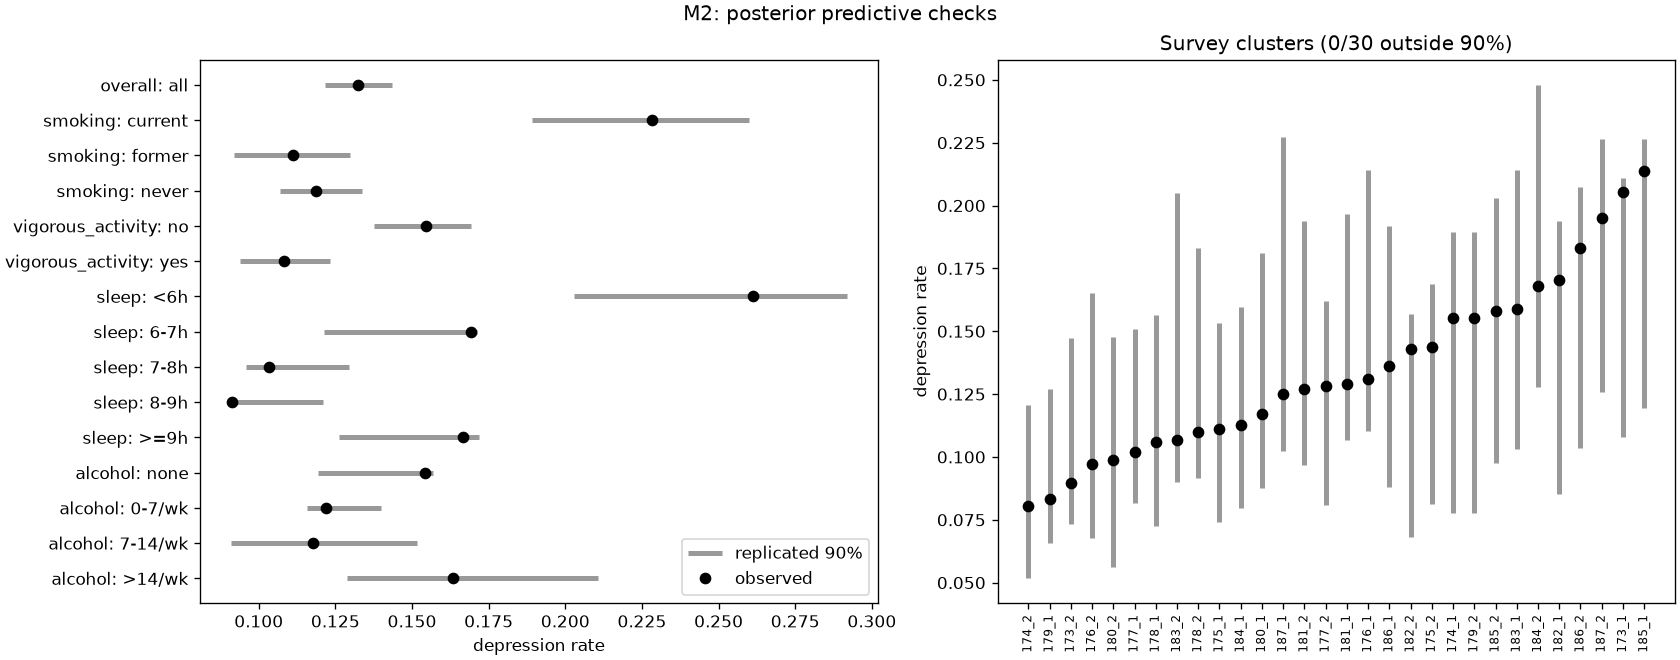
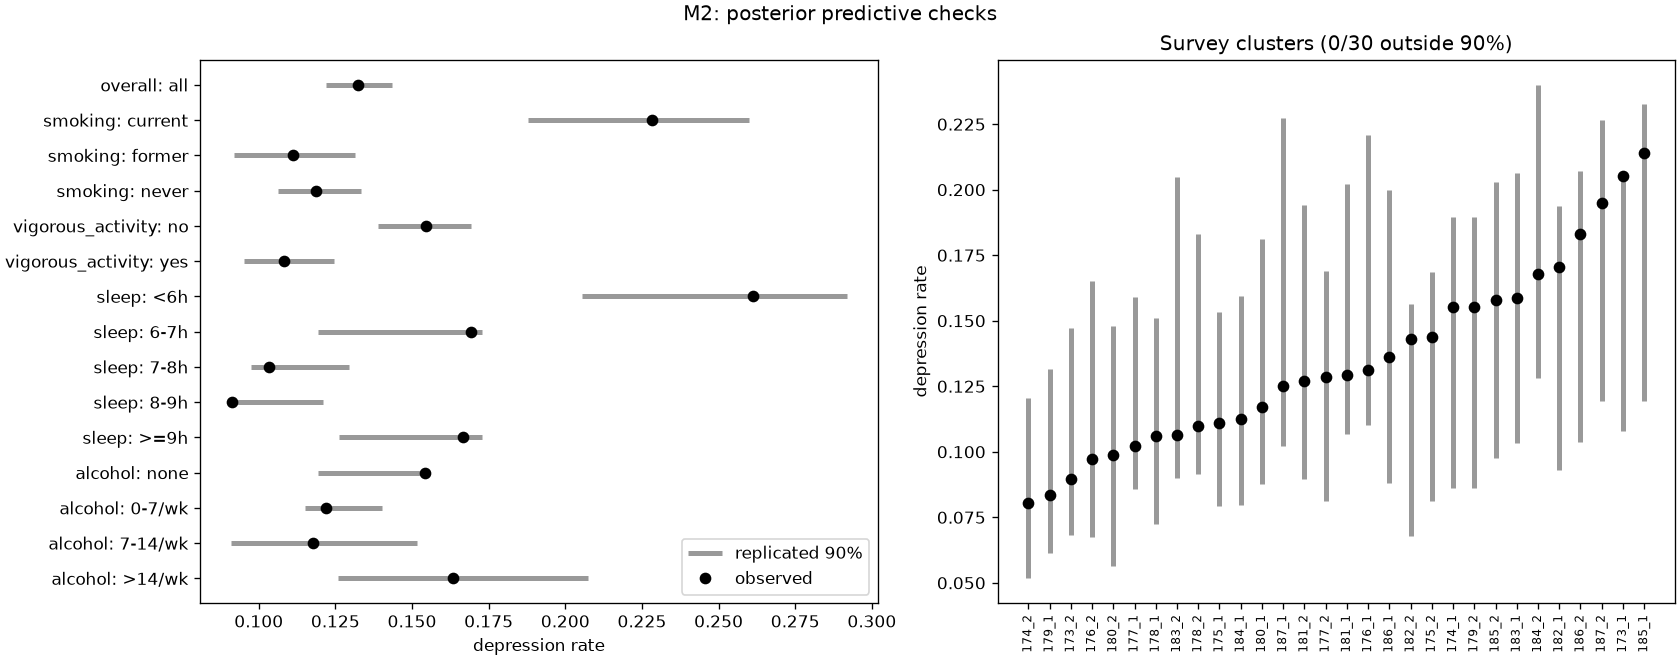
New submodels to check if sleep quadratic is beneficial. Plots and plotting refactor (#18)

diff --git a/src/evaluation.py b/src/evaluation.py
@@ -21,7 +21,7 @@ from src.models import MODELS, get_priors, prepare_bambi_df
 SEED = 42
 PPC_DRAWS = 1000
 PRIOR_SCALES = (0.5, 2.0)
-SENSITIVITY_MODELS = ("M1", "M2")
+SENSITIVITY_MODELS = list(MODELS.keys() - {"M0"})  # set difference on dict_keys works in Python 3
 
 
 def load_data() -> pd.DataFrame:
@@ -192,28 +192,50 @@ def evaluate(args) -> None:
     print(f"Participants: {len(df)}, depressed: {y.sum()} ({y.mean():.1%})")
 
     idatas = {name: fit(name, df, args) for name in MODELS}
-    conv, rates, clusters, loo_rows, elpd = [], [], [], [], {}
+    conv, rates, clusters, loo_rows, elpd_i, loo_results = [], [], [], [], {}, {}
     for name, idata in idatas.items():
         conv.append(convergence(name, idata))
         rate_table, cluster_stat = ppc(name, df, y, replicate(idata, y, rng))
         rates.append(rate_table)
         clusters.append(cluster_stat)
-        row, elpd[name] = loo(name, idata)
-        loo_rows.append(row)
+        res = az.loo(idata, pointwise=True)
+        loo_results[name] = res
+        k = np.asarray(res.pareto_k).ravel()
+        loo_rows.append({
+            "model": name,
+            "elpd_loo": res.elpd,
+            "se": res.se,
+            "p_loo": res.p,
+            "max_pareto_k": k.max(),
+            "n_pareto_k_gt_0.7": int((k > 0.7).sum()),
+        })
+        elpd_i[name] = np.asarray(res.elpd_i).ravel()
 
-    elpd["baseline"] = baseline_elpd(y)
-    loo_rows.append({"model": "baseline", "elpd_loo": elpd["baseline"].sum()})
+    elpd_i["baseline"] = baseline_elpd(y)
+    loo_rows.append({
+        "model": "baseline",
+        "elpd_loo": elpd_i["baseline"].sum(),
+        "se": np.nan,
+        "p_loo": np.nan,
+        "max_pareto_k": np.nan,
+        "n_pareto_k_gt_0.7": np.nan,
+    })
 
     pd.DataFrame(conv).to_csv(TABLE_DIR / "convergence.csv", index=False)
-    pd.concat(rates).to_csv(TABLE_DIR / "ppc_rates.csv", index=False)
+    pd.concat(rates, ignore_index=True).to_csv(TABLE_DIR / "ppc_rates.csv", index=False)
     pd.DataFrame(clusters).to_csv(TABLE_DIR / "ppc_clusters.csv", index=False)
     pd.DataFrame(loo_rows).to_csv(TABLE_DIR / "loo.csv", index=False)
-    pd.DataFrame([pairwise(elpd, "M0", "baseline"), pairwise(elpd, "M1", "M0"),
-                  pairwise(elpd, "M2", "M1")]).to_csv(TABLE_DIR / "loo_pairwise.csv", index=False)
-    az.compare(idatas).to_csv(TABLE_DIR / "model_comparison.csv")
+    model_names = list(MODELS.keys())
+    comparisons = [pairwise(elpd_i, model_names[0], "baseline")] if model_names else []
+    comparisons.extend(
+        pairwise(elpd_i, model_names[i], model_names[i - 1])
+        for i in range(1, len(model_names))
+    )
+    pd.DataFrame(comparisons).to_csv(TABLE_DIR / "loo_pairwise.csv", index=False)
+    az.compare(loo_results).to_csv(TABLE_DIR / "model_comparison.csv")
 
-    if not args.skip_sensitivity:
+    if not args.skip_sensitivity and SENSITIVITY_MODELS:
         sens = [sensitivity(name, df, idatas[name], args) for name in SENSITIVITY_MODELS]
-        pd.concat(sens).to_csv(TABLE_DIR / "prior_sensitivity.csv", index=False)
+        pd.concat(sens, ignore_index=True).to_csv(TABLE_DIR / "prior_sensitivity.csv", index=False)
 
     print(f"Tables written to {TABLE_DIR}/")

diff --git a/src/models.py b/src/models.py
@@ -5,8 +5,17 @@ import bambi as bmb
 MODELS = {
     # baseline model: control
     "M0": "y ~ age_z + gender_female + income_z",
-    # linear + non-linear model: habits + non-linear sleep
-    "M1": (
+    "M1a": (
+        "y ~ age_z + gender_female + income_z "
+        "+ vigorous_act + sedentary_z + alcohol_z "
+        "+ sleep_c + smoking_former + smoking_current"
+    ),
+    "M1b": (
+        "y ~ age_z + gender_female + income_z "
+        "+ vigorous_act + sedentary_z + alcohol_z "
+        "+ I(sleep_c ** 2) + smoking_former + smoking_current"
+    ),
+    "M1c": (
         "y ~ age_z + gender_female + income_z "
         "+ vigorous_act + sedentary_z + alcohol_z "
         "+ sleep_c + I(sleep_c ** 2) + smoking_former + smoking_current"
@@ -28,7 +37,31 @@ MODEL_COLUMNS = {
         "gender_female",
         "income_z",
     ),
-    "M1": (
+    "M1a": (
+        "y",
+        "age_z",
+        "gender_female",
+        "income_z",
+        "vigorous_act",
+        "sedentary_z",
+        "alcohol_z",
+        "sleep_c",
+        "smoking_former",
+        "smoking_current",
+    ),
+    "M1b": (
+        "y",
+        "age_z",
+        "gender_female",
+        "income_z",
+        "vigorous_act",
+        "sedentary_z",
+        "alcohol_z",
+        "sleep_c",
+        "smoking_former",
+        "smoking_current",
+    ),
+    "M1c": (
         "y",
         "age_z",
         "gender_female",
@@ -80,29 +113,6 @@ def prepare_bambi_df(df: pd.DataFrame) -> pd.DataFrame:
         out["stratum_psu"] = out["stratum_psu"].astype(str)
     return out
 
-# helper function to generate synthetic data before the preprocessed data is ready
-def generate_synthetic_covariates(n, seed):
-    rnd = np.random.default_rng(seed)
-
-    smoking = rnd.choice(["never", "former", "current"], size=n, p=[0.6, 0.2, 0.2])
-    # Simulate ~30 unique stratum_psu clusters (15 strata x 2 PSUs)
-    clusters = [f"{s}_{p}" for s in range(173, 188) for p in (1, 2)]
-
-    synthetic_df = pd.DataFrame({
-        "age_z": rnd.normal(0.0, 1.0, size=n),
-        "gender_female": rnd.binomial(1, 0.5, size=n),
-        "income_z": rnd.normal(0.0, 1.0, size=n),
-        "vigorous_act": rnd.binomial(1, 0.45, size=n),
-        "sedentary_z": rnd.normal(0.0, 1.0, size=n),
-        "alcohol_z": np.clip(rnd.normal(0.0, 1.0, size=n), -0.8, 4.0),
-        "sleep_c": np.clip(rnd.normal(0.0, 1.4, size=n), -4.5, 5.5),
-        "smoking_former": (smoking == "former").astype(int),
-        "smoking_current": (smoking == "current").astype(int),
-        "stratum_psu": rnd.choice(clusters, size=n),
-        "y": rnd.integers(0, 2, size=n),
-    })
-    
-    return prepare_bambi_df(synthetic_df)
 
 # generate priors
 def get_priors(model_name: str):

diff --git a/evaluation/summary.md b/evaluation/summary.md
@@ -7,7 +7,9 @@ Targets: R-hat <= 1.01, ESS >= 400, no divergences or max tree depth hits.
 ```
 model  max_r_hat  min_ess_bulk  min_ess_tail  divergences  max_treedepth_hits
    M0   1.001299   3047.888621   2675.306265            0                   0
-   M1   1.002834   4975.490444   3244.725257            0                   0
+  M1a   1.002760   5253.227295   2958.902284            0                   0
+  M1b   1.002185   5250.257856   2828.412430            0                   0
+  M1c   1.003066   4973.243132   2785.836778            0                   0
    M2   1.003019   1411.180500   1803.563023            0                   0
 ```
 
@@ -26,6 +28,15 @@ model          variable   group    n  observed  rep_q05  rep_q95  outside_90
    M0             sleep    7-8h 1314  0.103501 0.108828 0.142314        True
    M0             sleep    8-9h 1479  0.091278 0.110176 0.139959        True
    M0           alcohol  >14/wk  318  0.163522 0.088050 0.144654        True
+  M1a             sleep     <6h  360  0.261111 0.152778 0.233333        True
+  M1a             sleep    7-8h 1314  0.103501 0.109589 0.143075        True
+  M1a             sleep    8-9h 1479  0.091278 0.102096 0.132522        True
+  M1a             sleep    >=9h  943  0.166490 0.107105 0.151697        True
+  M1a           alcohol    none 1155  0.154113 0.115152 0.152381        True
+  M1b             sleep     <6h  360  0.261111 0.158333 0.230556        True
+  M1b             sleep    6-7h  561  0.169340 0.103387 0.151515        True
+  M1b             sleep    8-9h 1479  0.091278 0.096687 0.127789        True
+   M2             sleep    8-9h 1479  0.091278 0.091954 0.121028        True
 ```
 
 ## 2. Posterior predictive checks: survey clusters
@@ -35,8 +46,10 @@ About 3 of 30 clusters fall outside by chance. ppp_sd near 0 means the model und
 ```
 model  clusters_outside_90  n_clusters  observed_sd  replicated_sd_mean  ppp_sd
    M0                    3          30     0.035097            0.034670   0.464
-   M1                    2          30     0.035097            0.035534   0.514
-   M2                    0          30     0.035097            0.037532   0.681
+  M1a                    2          30     0.035097            0.034948   0.464
+  M1b                    2          30     0.035097            0.036335   0.600
+  M1c                    2          30     0.035097            0.035794   0.545
+   M2                    0          30     0.035097            0.037693   0.697
 ```
 
 ## 3. PSIS-LOO
@@ -46,7 +59,9 @@ Pareto k > 0.7 would make LOO unreliable.
 ```
    model     elpd_loo        se     p_loo  max_pareto_k  n_pareto_k_gt_0.7
       M0 -1706.761737 42.260350  3.818800      0.157449                0.0
-      M1 -1640.851160 42.079715 11.202851      0.277898                0.0
+     M1a -1663.770494 42.312498 10.411020      0.287596                0.0
+     M1b -1649.184557 42.122884 10.169443      0.234929                0.0
+     M1c -1640.905373 42.105196 11.267363      0.250048                0.0
       M2 -1641.157959 42.102690 17.089912      0.274873                0.0
 baseline -1822.308999       NaN       NaN           NaN                NaN
 ```
@@ -58,8 +73,10 @@ Clear when |elpd_diff| > 4 and > 2 SE. M1 - M0: do habits help? M2 - M1: do clus
 ```
    comparison  elpd_diff        se  clear
 M0 - baseline 115.547263 14.616856   True
-      M1 - M0  65.910576 12.289321   True
-      M2 - M1  -0.306799  1.143368  False
+     M1a - M0  42.991243 10.310509   True
+    M1b - M1a  14.585936  8.775360  False
+    M1c - M1b   8.279184  4.507538  False
+     M2 - M1c  -0.252586  1.145000  False
 ```
 
 ## 3. az.compare
@@ -68,9 +85,11 @@ M0 - baseline 115.547263 14.616856   True
 
 ```
 model  rank  elpd_diff  dse  p_worse       diag_diff  diag_elpd    p    elpd   se  weight
-   M1     0        0.0  0.0      NaN             NaN        NaN 11.2 -1640.0 42.0    0.70
-   M2     1       -0.0  1.1     0.61 |elpd_diff| < 4        NaN 17.1 -1640.0 42.0    0.27
-   M0     2      -70.0 12.0     1.00             NaN        NaN  3.8 -1710.0 42.0    0.03
+  M1c     0        0.0  0.0      NaN             NaN        NaN 11.3 -1640.0 42.0    0.56
+   M2     1       -0.0  1.1     0.59 |elpd_diff| < 4        NaN 17.1 -1640.0 42.0    0.31
+  M1b     2       -8.0  4.5     0.97             NaN        NaN 10.2 -1650.0 42.0    0.08
+  M1a     3      -20.0  7.6     1.00             NaN        NaN 10.4 -1660.0 42.0    0.04
+   M0     4      -70.0 12.0     1.00             NaN        NaN  3.8 -1710.0 42.0    0.01
 ```
 
 ## 4. Prior sensitivity: posterior means by prior scale
@@ -79,17 +98,37 @@ Shifts above about 0.5 posterior SD are worth discussing.
 
 ```
 model                term    0.5    1.0    2.0  max_abs_shift_in_sd
-   M1     I(sleep_c ** 2)  0.058  0.059  0.059                0.140
-   M1           Intercept -2.329 -2.377 -2.392                0.470
-   M1               age_z -0.441 -0.466 -0.474                0.502
-   M1           alcohol_z  0.091  0.092  0.092                0.043
-   M1       gender_female  0.410  0.459  0.472                0.517
-   M1            income_z -0.407 -0.405 -0.404                0.036
-   M1         sedentary_z  0.162  0.163  0.163                0.014
-   M1             sleep_c -0.114 -0.116 -0.117                0.069
-   M1     smoking_current  0.444  0.523  0.549                0.675
-   M1      smoking_former  0.080  0.126  0.142                0.391
-   M1        vigorous_act -0.384 -0.425 -0.437                0.416
+  M1a           Intercept -2.180 -2.225 -2.239                0.429
+  M1a               age_z -0.420 -0.443 -0.448                0.472
+  M1a           alcohol_z  0.103  0.103  0.103                0.007
+  M1a       gender_female  0.404  0.449  0.462                0.480
+  M1a            income_z -0.461 -0.463 -0.462                0.037
+  M1a         sedentary_z  0.182  0.184  0.184                0.045
+  M1a             sleep_c -0.099 -0.100 -0.100                0.033
+  M1a     smoking_current  0.470  0.547  0.573                0.651
+  M1a      smoking_former  0.073  0.115  0.128                0.363
+  M1a        vigorous_act -0.399 -0.437 -0.447                0.398
+  M1b     I(sleep_c ** 2)  0.054  0.054  0.054                0.048
+  M1b           Intercept -2.356 -2.402 -2.417                0.423
+  M1b               age_z -0.422 -0.445 -0.453                0.468
+  M1b           alcohol_z  0.095  0.096  0.096                0.029
+  M1b       gender_female  0.405  0.451  0.464                0.465
+  M1b            income_z -0.405 -0.404 -0.404                0.012
+  M1b         sedentary_z  0.170  0.173  0.173                0.078
+  M1b     smoking_current  0.469  0.554  0.580                0.723
+  M1b      smoking_former  0.081  0.125  0.139                0.387
+  M1b        vigorous_act -0.379 -0.416 -0.427                0.378
+  M1c     I(sleep_c ** 2)  0.059  0.059  0.059                0.016
+  M1c           Intercept -2.332 -2.380 -2.391                0.468
+  M1c               age_z -0.442 -0.467 -0.472                0.507
+  M1c           alcohol_z  0.091  0.092  0.092                0.025
+  M1c       gender_female  0.411  0.461  0.471                0.521
+  M1c            income_z -0.406 -0.405 -0.405                0.025
+  M1c         sedentary_z  0.161  0.163  0.164                0.045
+  M1c             sleep_c -0.115 -0.117 -0.117                0.052
+  M1c     smoking_current  0.440  0.524  0.546                0.692
+  M1c      smoking_former  0.081  0.127  0.138                0.391
+  M1c        vigorous_act -0.386 -0.426 -0.436                0.412
    M2 1|stratum_psu_sigma  0.105  0.112  0.111                0.106
    M2     I(sleep_c ** 2)  0.058  0.059  0.060                0.123
    M2           Intercept -2.332 -2.378 -2.398                0.417
